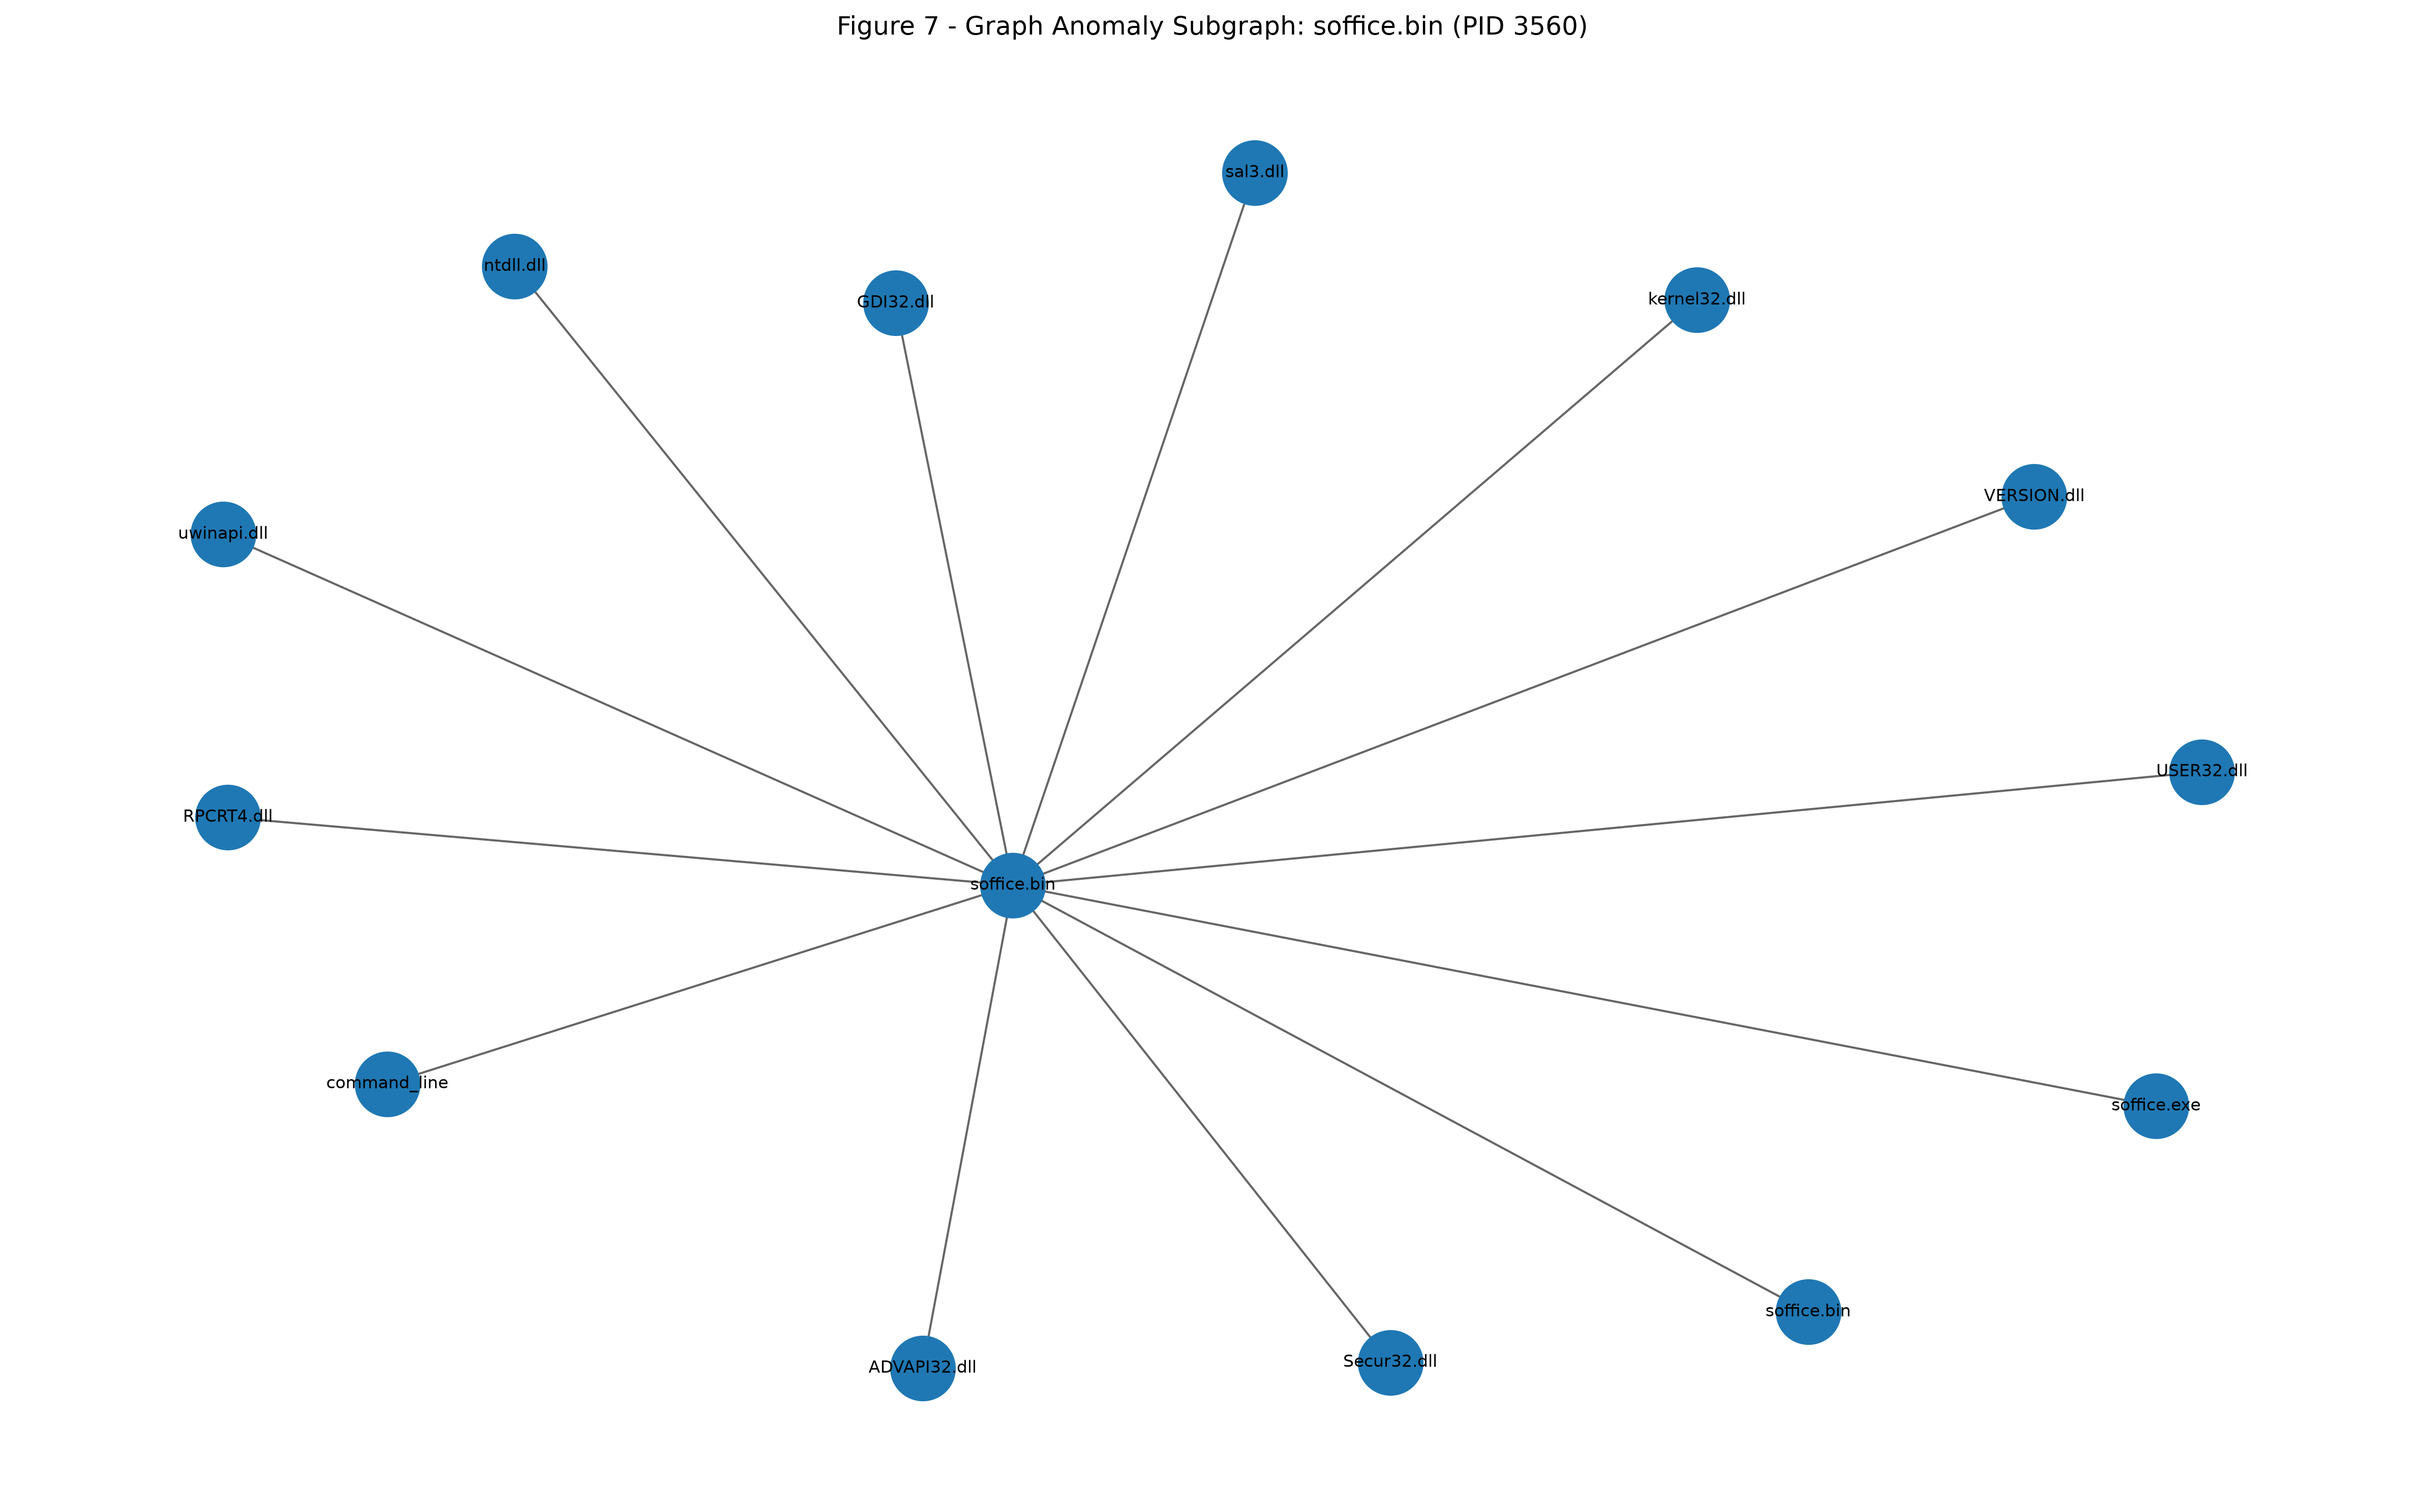
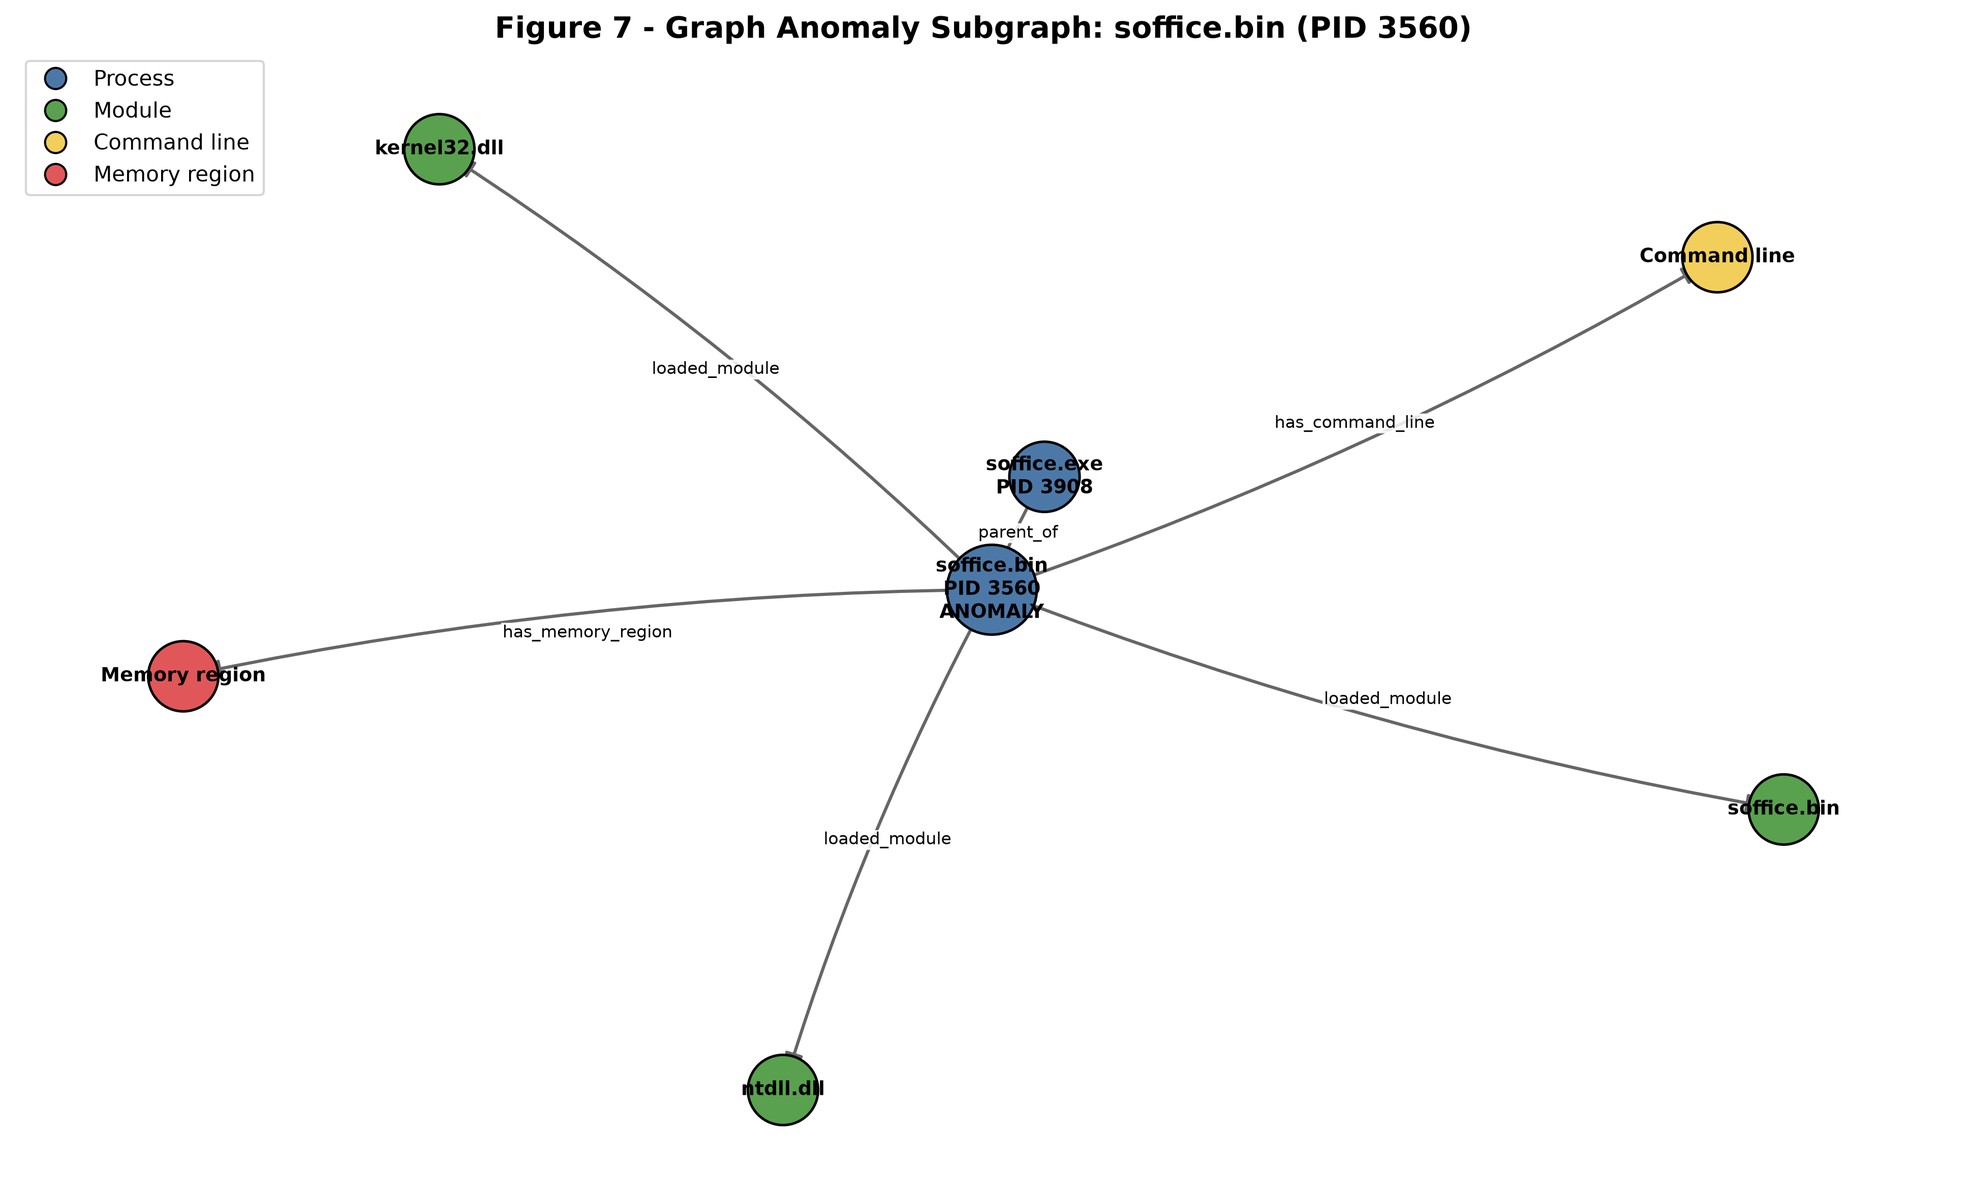
Improve Figure 7 graph anomaly subgraph

diff --git a/scripts/generate_figure7.py b/scripts/generate_figure7.py
@@ -1,0 +1,206 @@
+import os
+import networkx as nx
+import matplotlib.pyplot as plt
+
+GRAPH_PATH = r"data\normalized\M57-Jean\temporal_graph.graphml"
+OUTPUT_PATH = r"results\M57-Jean\figure7_graph_anomaly_subgraph.png"
+
+ANOMALY_NODE = "process:3560"
+PARENT_NODE = "process:3908"
+
+# Load the existing knowledge graph
+G = nx.read_graphml(GRAPH_PATH)
+
+# Build a small anomaly-centered subgraph
+selected_nodes = {ANOMALY_NODE, PARENT_NODE}
+
+# Add command-line and memory-region nodes directly connected to the anomaly
+for _, target, data in G.out_edges(ANOMALY_NODE, data=True):
+    relationship = data.get("relationship", "")
+    if relationship in {"has_command_line", "has_memory_region"}:
+        selected_nodes.add(target)
+
+# Add three representative loaded modules
+module_nodes = []
+for _, target, data in G.out_edges(ANOMALY_NODE, data=True):
+    if data.get("relationship") == "loaded_module":
+        module_nodes.append(target)
+
+for node in sorted(module_nodes)[:3]:
+    selected_nodes.add(node)
+
+# Create the subgraph
+SG = G.subgraph(selected_nodes).copy()
+
+# Node-type colors
+node_colors = {
+    "process": "#4C78A8",
+    "module": "#59A14F",
+    "command_line": "#F2CF5B",
+    "memory_region": "#E15759",
+}
+
+# Node sizes
+node_sizes = []
+colors = []
+
+for node, data in SG.nodes(data=True):
+    node_type = data.get("node_type", "unknown")
+    colors.append(node_colors.get(node_type, "#9D9D9D"))
+
+    if node == ANOMALY_NODE:
+        node_sizes.append(1800)
+    else:
+        node_sizes.append(1100)
+
+# Human-readable node labels
+labels = {}
+
+for node, data in SG.nodes(data=True):
+    node_type = data.get("node_type", "")
+
+    if node == ANOMALY_NODE:
+        labels[node] = "soffice.bin\nPID 3560\nANOMALY"
+    elif node == PARENT_NODE:
+        labels[node] = f"{data.get('name', 'parent process')}\nPID {data.get('pid', '?')}"
+    elif node_type == "module":
+        name = data.get("name", node.split(":")[-1])
+        labels[node] = str(name)
+    elif node_type == "command_line":
+        labels[node] = "Command line"
+    elif node_type == "memory_region":
+        labels[node] = "Memory region"
+    else:
+        labels[node] = node.split(":")[-1]
+
+# Layout
+pos = nx.spring_layout(
+    SG,
+    seed=42,
+    k=1.8,
+    iterations=200
+)
+
+plt.figure(figsize=(13, 8))
+
+# Draw nodes
+nx.draw_networkx_nodes(
+    SG,
+    pos,
+    node_color=colors,
+    node_size=node_sizes,
+    edgecolors="black",
+    linewidths=1.2
+)
+
+# Draw edges
+nx.draw_networkx_edges(
+    SG,
+    pos,
+    arrows=True,
+    arrowsize=18,
+    width=1.5,
+    edge_color="#666666",
+    connectionstyle="arc3,rad=0.05"
+)
+
+# Draw node labels
+nx.draw_networkx_labels(
+    SG,
+    pos,
+    labels=labels,
+    font_size=9,
+    font_weight="bold"
+)
+
+# Edge relationship labels
+edge_labels = {
+    (u, v): data.get("relationship", "")
+    for u, v, data in SG.edges(data=True)
+}
+
+nx.draw_networkx_edge_labels(
+    SG,
+    pos,
+    edge_labels=edge_labels,
+    font_size=8,
+    label_pos=0.5,
+    rotate=False,
+    bbox=dict(
+        alpha=0.85,
+        color="white",
+        pad=0.2
+    )
+)
+
+plt.title(
+    "Figure 7 - Graph Anomaly Subgraph: soffice.bin (PID 3560)",
+    fontsize=14,
+    fontweight="bold"
+)
+
+# Legend
+legend_items = [
+    plt.Line2D(
+        [0], [0],
+        marker="o",
+        color="w",
+        label="Process",
+        markerfacecolor=node_colors["process"],
+        markeredgecolor="black",
+        markersize=10
+    ),
+    plt.Line2D(
+        [0], [0],
+        marker="o",
+        color="w",
+        label="Module",
+        markerfacecolor=node_colors["module"],
+        markeredgecolor="black",
+        markersize=10
+    ),
+    plt.Line2D(
+        [0], [0],
+        marker="o",
+        color="w",
+        label="Command line",
+        markerfacecolor=node_colors["command_line"],
+        markeredgecolor="black",
+        markersize=10
+    ),
+    plt.Line2D(
+        [0], [0],
+        marker="o",
+        color="w",
+        label="Memory region",
+        markerfacecolor=node_colors["memory_region"],
+        markeredgecolor="black",
+        markersize=10
+    ),
+]
+
+plt.legend(
+    handles=legend_items,
+    loc="upper left",
+    frameon=True
+)
+
+plt.axis("off")
+plt.tight_layout()
+
+os.makedirs(os.path.dirname(OUTPUT_PATH), exist_ok=True)
+
+plt.savefig(
+    OUTPUT_PATH,
+    dpi=300,
+    bbox_inches="tight"
+)
+
+plt.close()
+
+print(f"Figure 7 generated successfully: {OUTPUT_PATH}")
+print(f"Nodes displayed: {SG.number_of_nodes()}")
+print(f"Edges displayed: {SG.number_of_edges()}")
+print("Displayed edge relationships:")
+for u, v, data in SG.edges(data=True):
+    print(f"  {u} -> {v}: {data.get('relationship', '')}")
